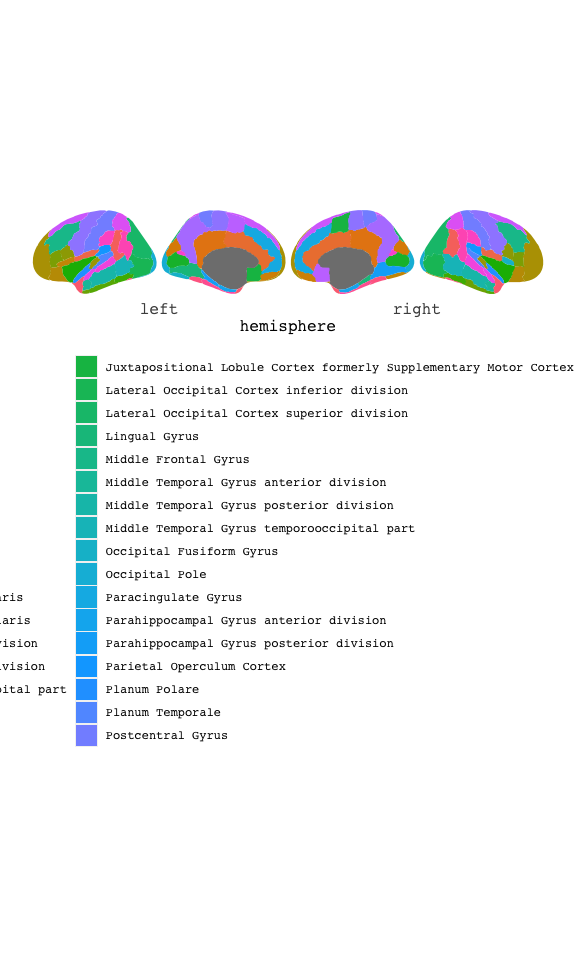
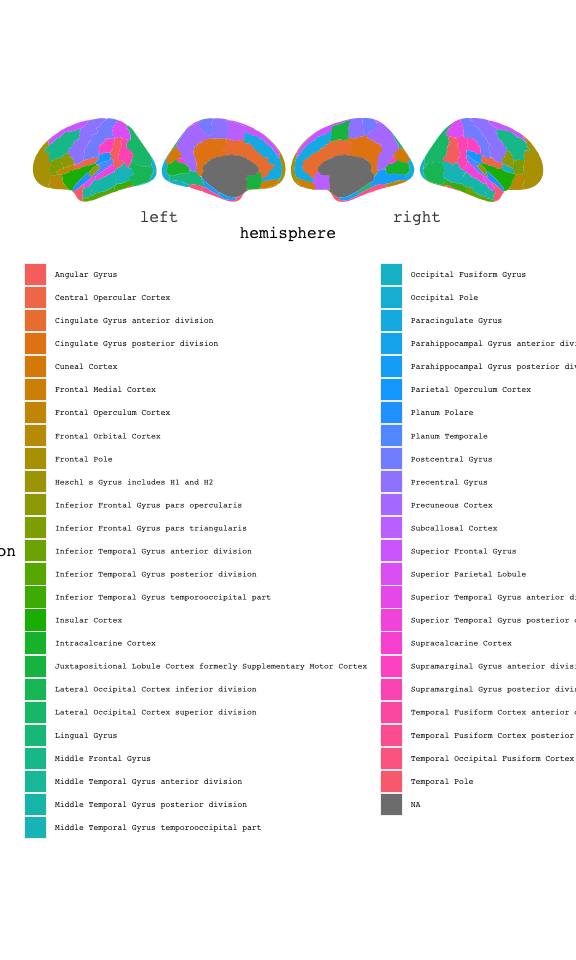
improve readme

Changed region(s): [[0.0, 0.125, 1.0, 0.875], [0.9062, 0.7812, 0.9375, 0.8125]]

diff --git a/README.md b/README.md
@@ -40,8 +40,8 @@ library(ggseg)
 ggseg(atlas = hoCort, mapping = aes(fill = region)) +
   # scale_fill_brain("hoCort", package = "ggsegHO") + # no palette available
   theme(legend.position = "bottom",
-        legend.text = element_text(size = 9)) +
-  guides(fill = guide_legend(ncol = 3))
+        legend.text = element_text(size = 6)) +
+  guides(fill = guide_legend(ncol = 2))
 ```
 
 <img src="man/figures/README-unnamed-chunk-3-1.png" width="100%" />
@@ -84,6 +84,6 @@ ggseg(atlas = hoCort, mapping = aes(fill = region)) +
 
 <!-- ``` -->
 
-Please note that the ‘ggsegDesterieux’ project is released with a
-[Contributor Code of Conduct](CODE_OF_CONDUCT.md). By contributing to
-this project, you agree to abide by its terms.
+Please note that the ‘ggsegHO’ project is released with a [Contributor
+Code of Conduct](CODE_OF_CONDUCT.md). By contributing to this project,
+you agree to abide by its terms.
